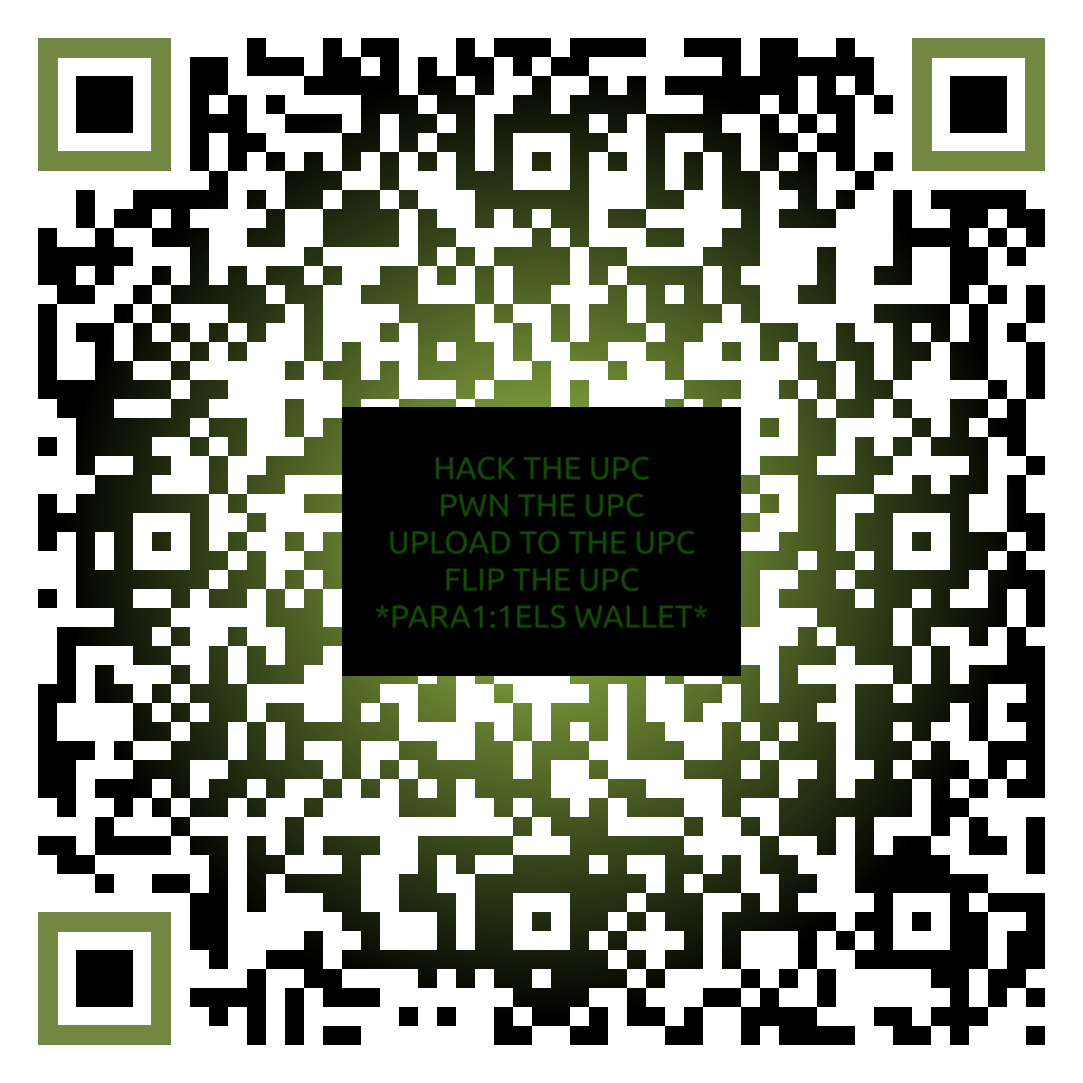
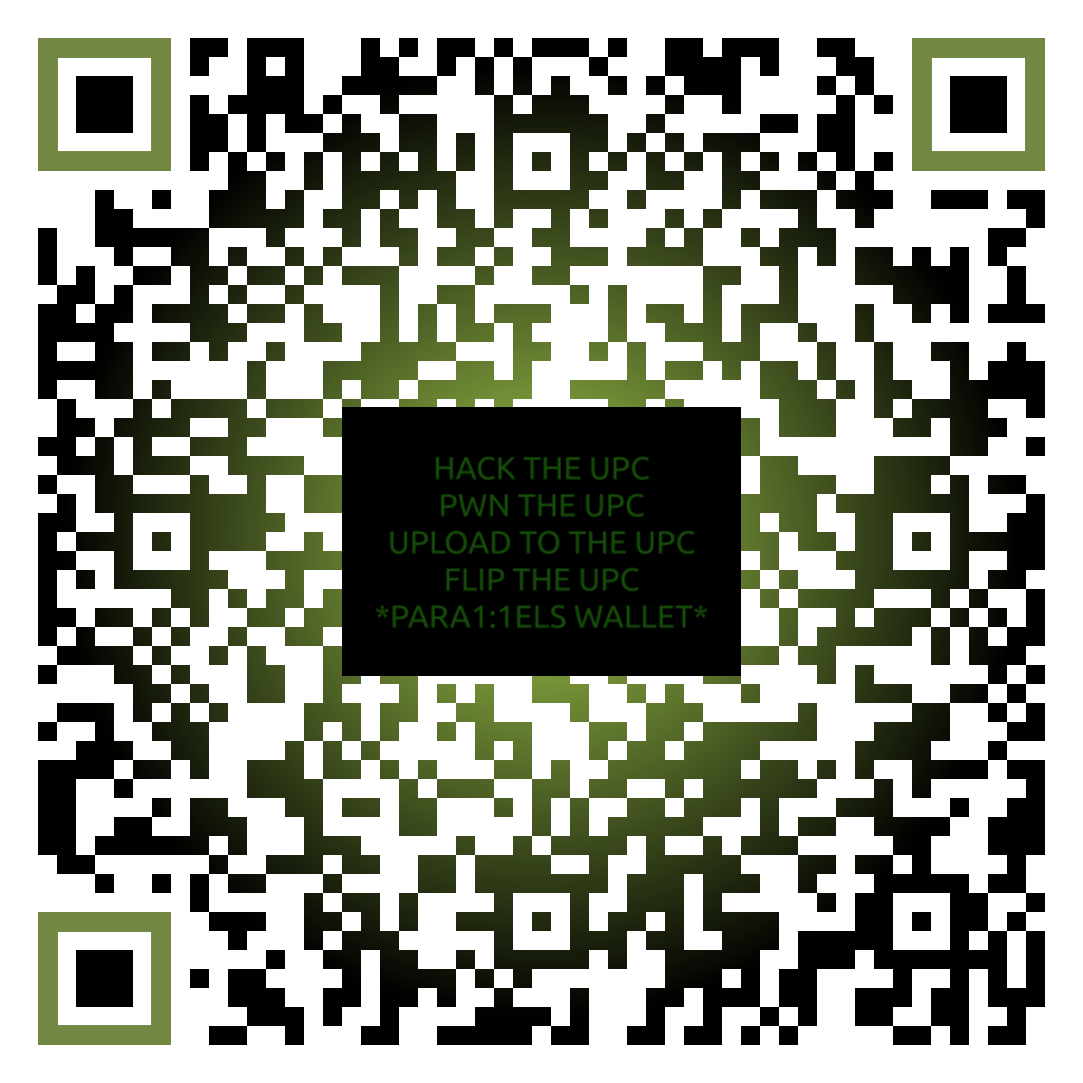
update app to 1.4

diff --git a/app/src/main/java/com/alphawallet/app/util/DappBrowserUtils.java b/app/src/main/java/com/alphawallet/app/util/DappBrowserUtils.java
@@ -88,7 +88,7 @@ public class DappBrowserUtils {
         }
 
         if(finalList.size() < 1) {
-            DApp defaultUPCVerse = new DApp("CURRENT_UPCVERSE","QmY5adscBLg5qfdfS5ju11fGoVCxMXkzp9Sqt62TS8nXia");
+            DApp defaultUPCVerse = new DApp("CURRENT_UPCVERSE","QmVZUJybnpFcK3iCxW15fuBRsPGtEhZfrtvXhYhYQ7TFpH");
             finalList.add(defaultUPCVerse);
         }
         return finalList;
